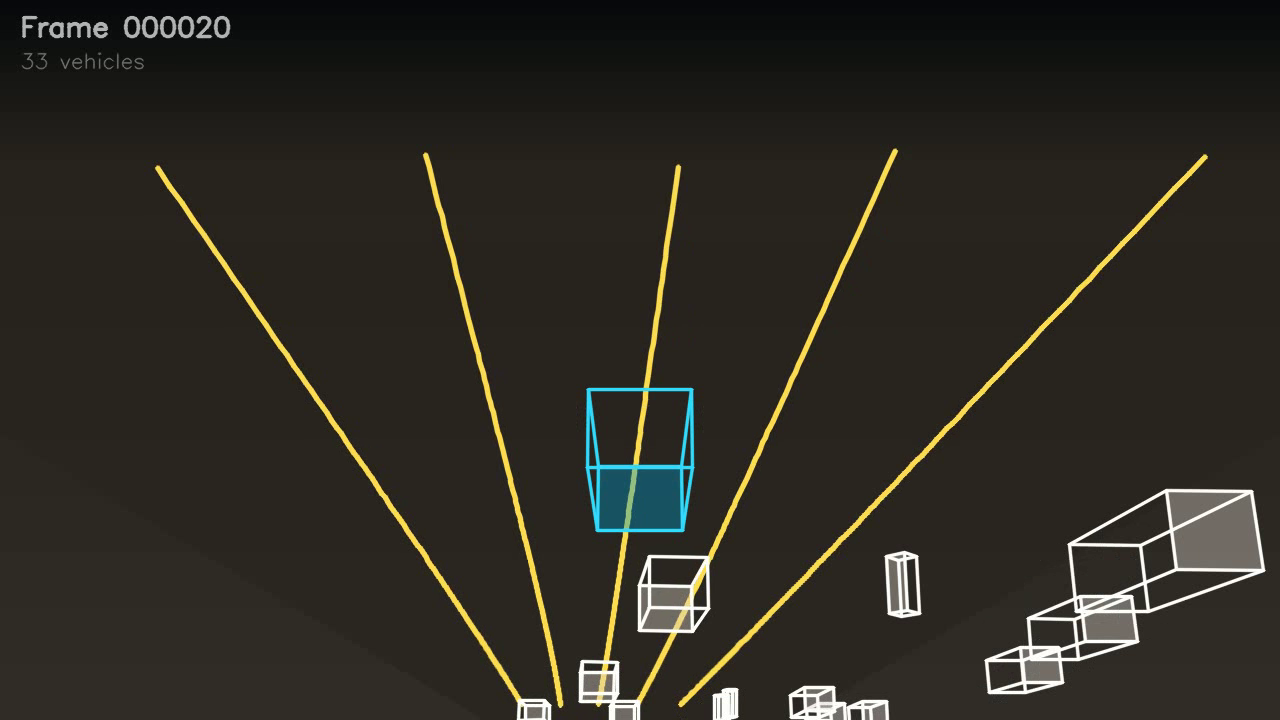
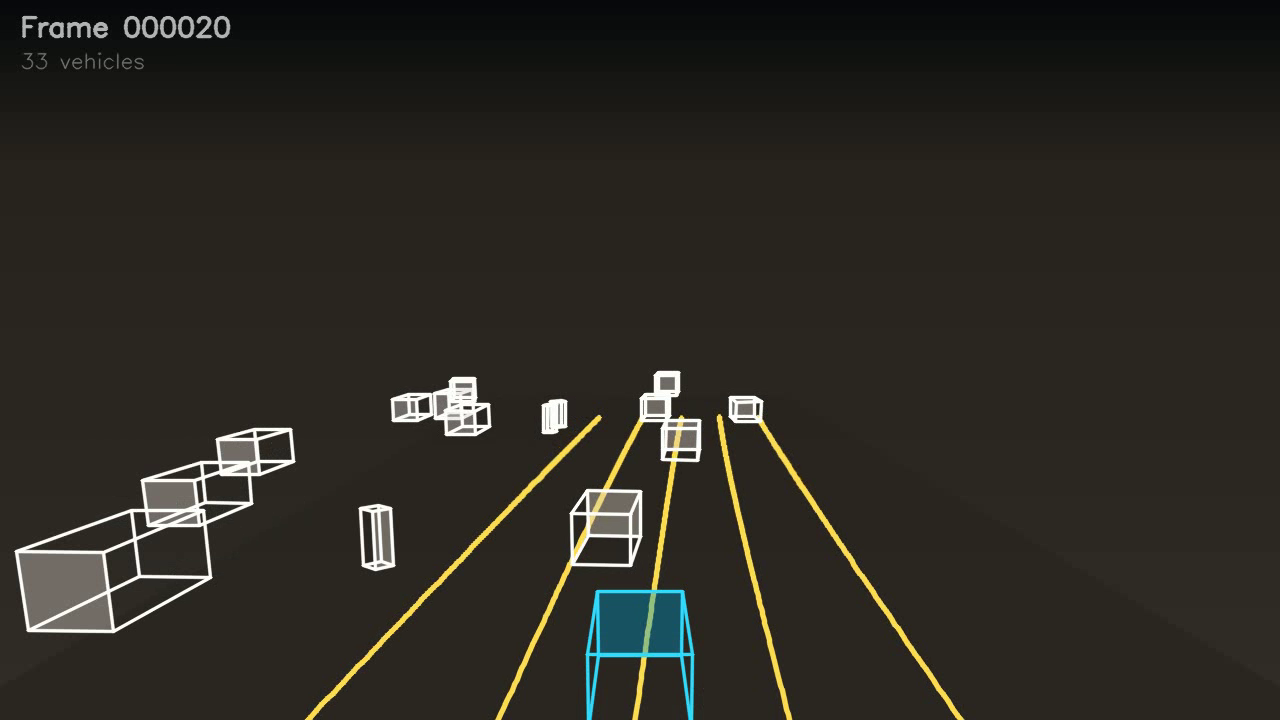
Auto backup 2026-05-04 04:15 |  2 files changed, 16 insertions(+), 17 deletions(-)

diff --git a/tools/paper_figures/render_fsd.py b/tools/paper_figures/render_fsd.py
@@ -55,23 +55,22 @@ def make_proj(elev_deg, w, h, fov_deg=FOV_DEG, cam_height=CAM_HEIGHT, cam_back=C
     cy = int(h * 0.78)   # principal point — low horizon
 
     def proj(pts):
-        # pts: Nx3 [x_fwd, y_lat, z_up]
-        # Translate: camera is cam_back behind ego, cam_height up
-        px = pts[:, 0] + cam_back   # forward distance from camera
-        py = pts[:, 1]              # lateral (unchanged)
-        pz = pts[:, 2] - cam_height # height relative to camera
+        # pts: Nx3 [x_fwd, y_lat (+y = left), z_up]
+        # Translate to camera origin (camera is cam_back behind ego, cam_height up)
+        px = pts[:, 0] + cam_back
+        py = pts[:, 1]
+        pz = pts[:, 2] - cam_height
 
-        # Rotate by elevation (camera tilts down by elev_deg)
-        # Camera X axis = lateral, Y axis = up-in-image, Z axis = into scene
-        x_cam =  py
-        y_cam = -(px * se + pz * ce)   # negative → down in image = positive sy
-        z_cam =  px * ce - pz * se     # depth (positive = in front)
+        # Rotate world → camera (image convention: +x_cam right, +y_cam down, +z_cam fwd)
+        # Camera tilted DOWN by elev_deg around lateral axis.
+        x_cam = -py                    # +y_world = left → -x_cam (left of image)
+        y_cam = -se * px - ce * pz     # ground at z=0 (pz<0): far → negative → above cy
+        z_cam =  ce * px - se * pz     # depth into scene (positive = in front)
 
-        # Clamp depth to avoid behind-camera artifacts
-        z_cam = np.maximum(z_cam, 0.5)
+        z_cam = np.maximum(z_cam, 0.5) # clamp near-clip
 
-        sx = ( f * x_cam / z_cam + cx).astype(np.int32)
-        sy = (-f * y_cam / z_cam + cy).astype(np.int32)
+        sx = (f * x_cam / z_cam + cx).astype(np.int32)
+        sy = (f * y_cam / z_cam + cy).astype(np.int32)
         return np.stack([sx, sy], axis=1), z_cam
 
     return proj
